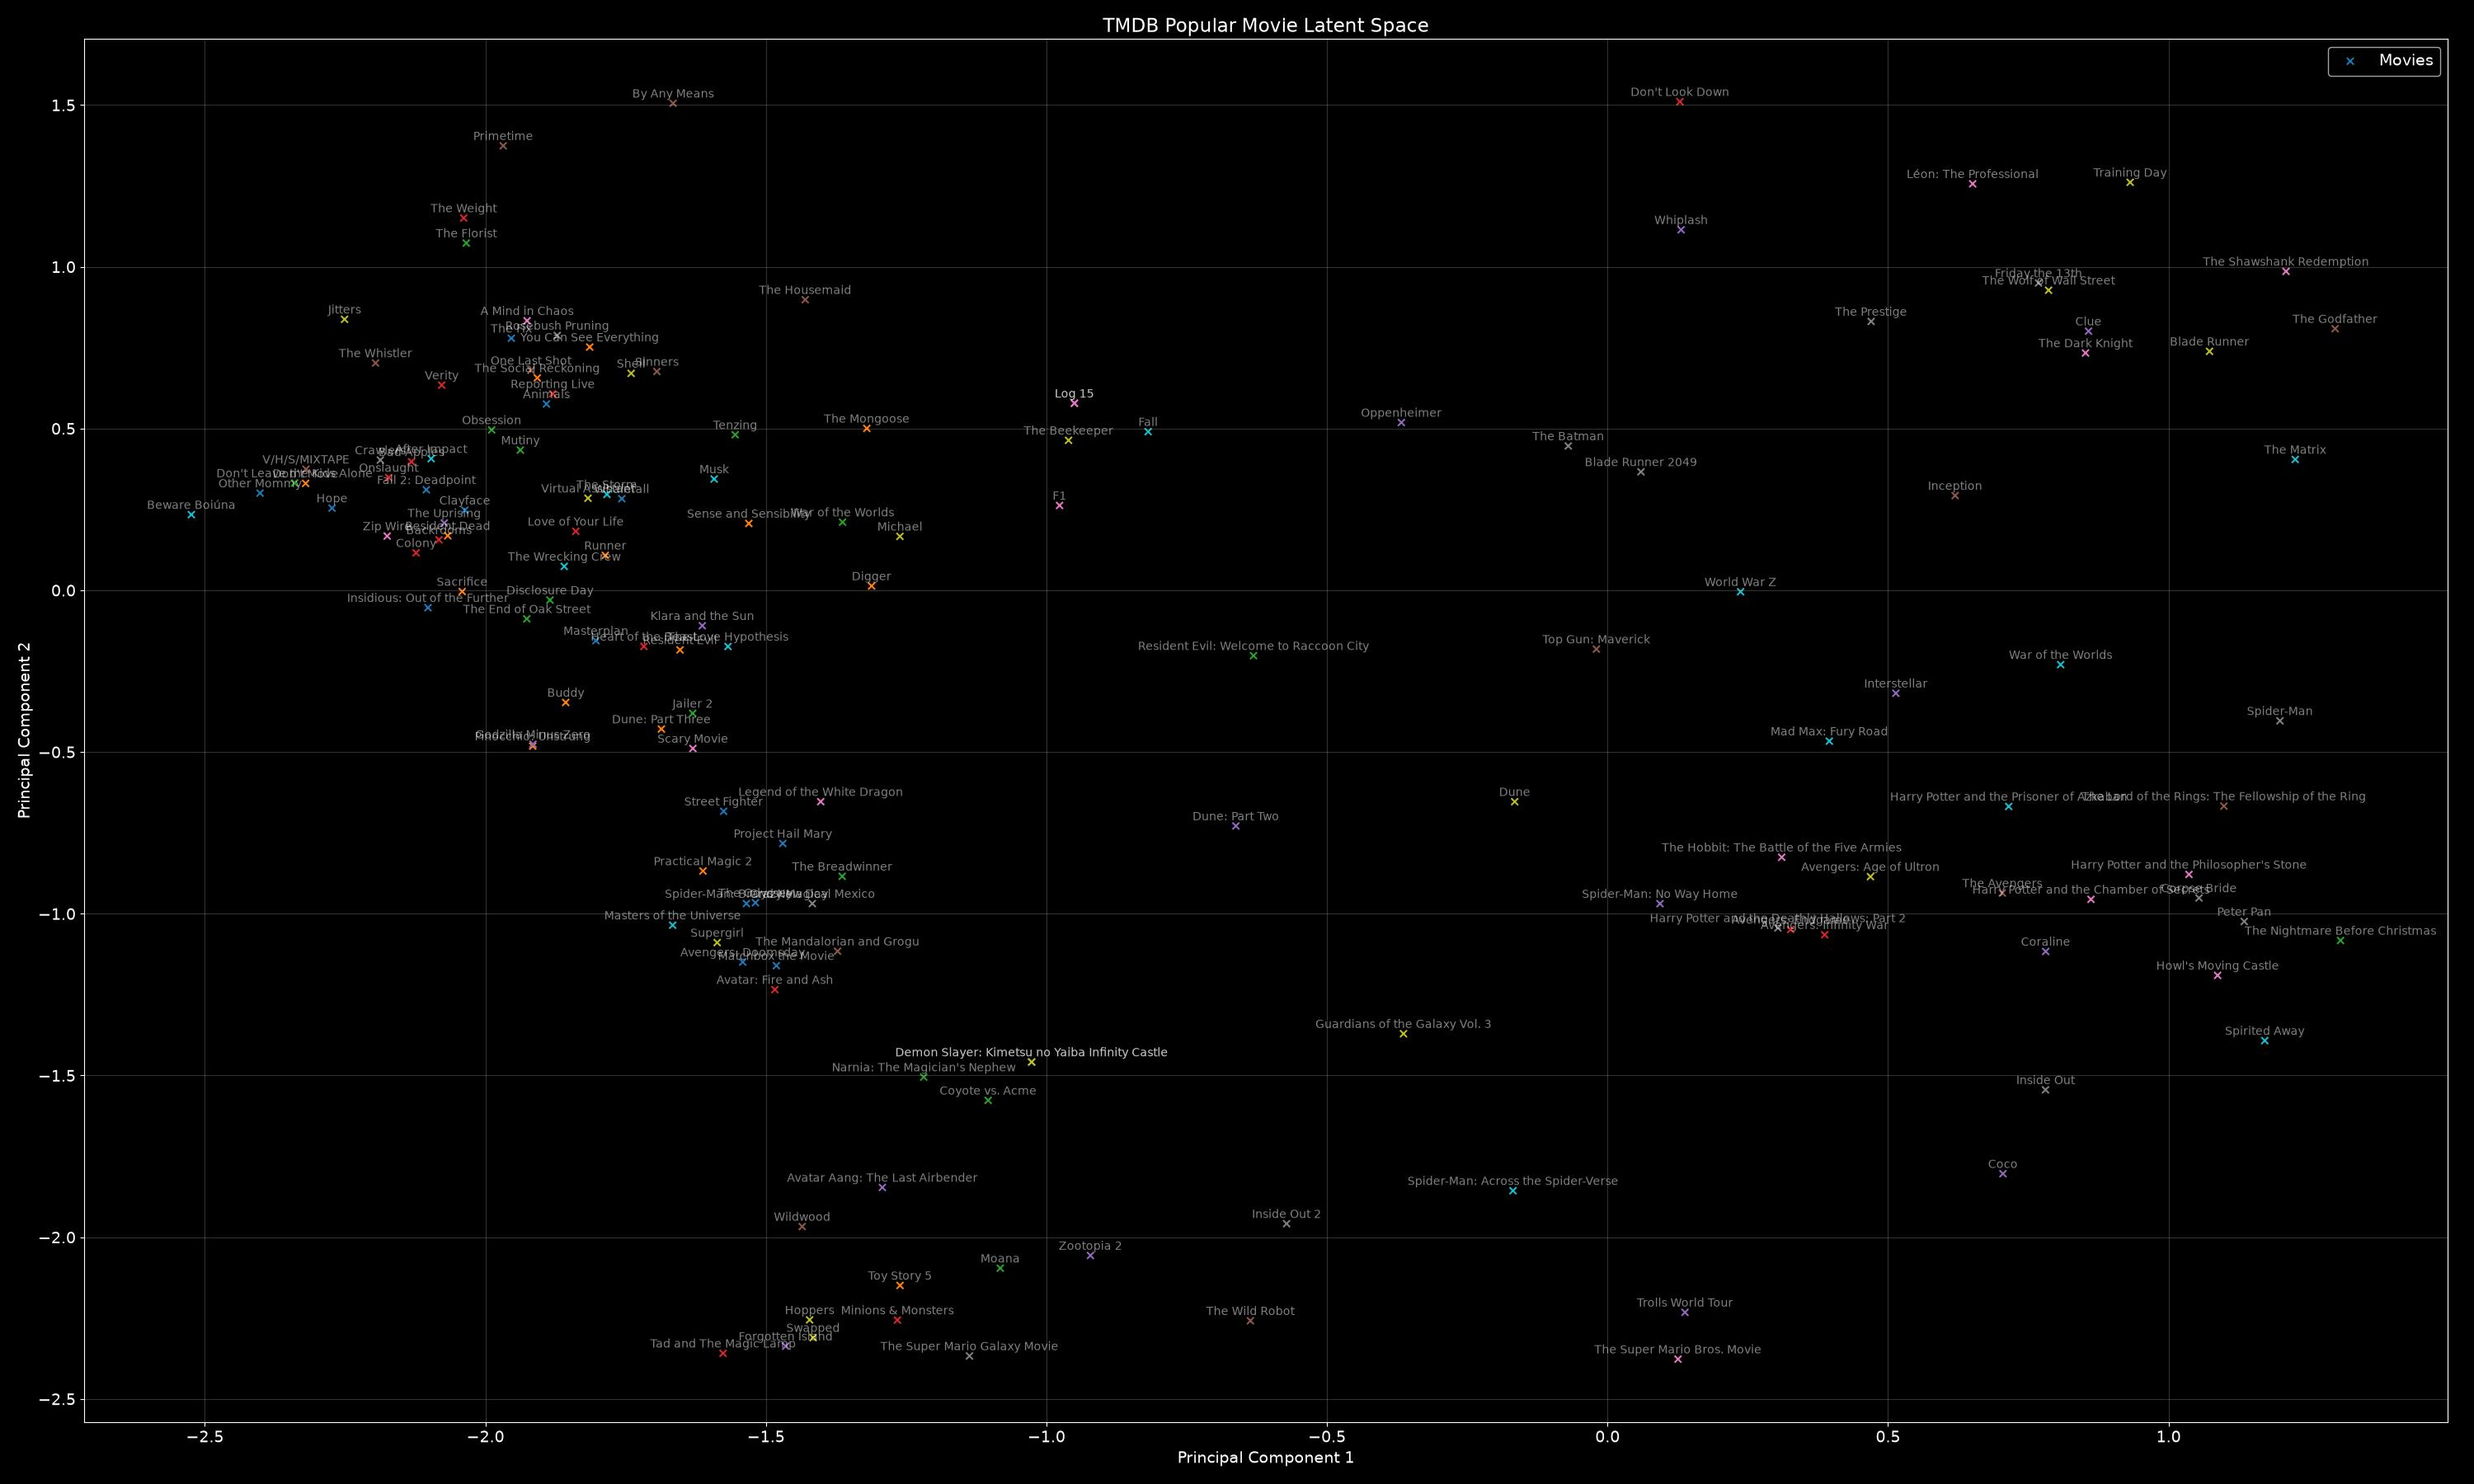
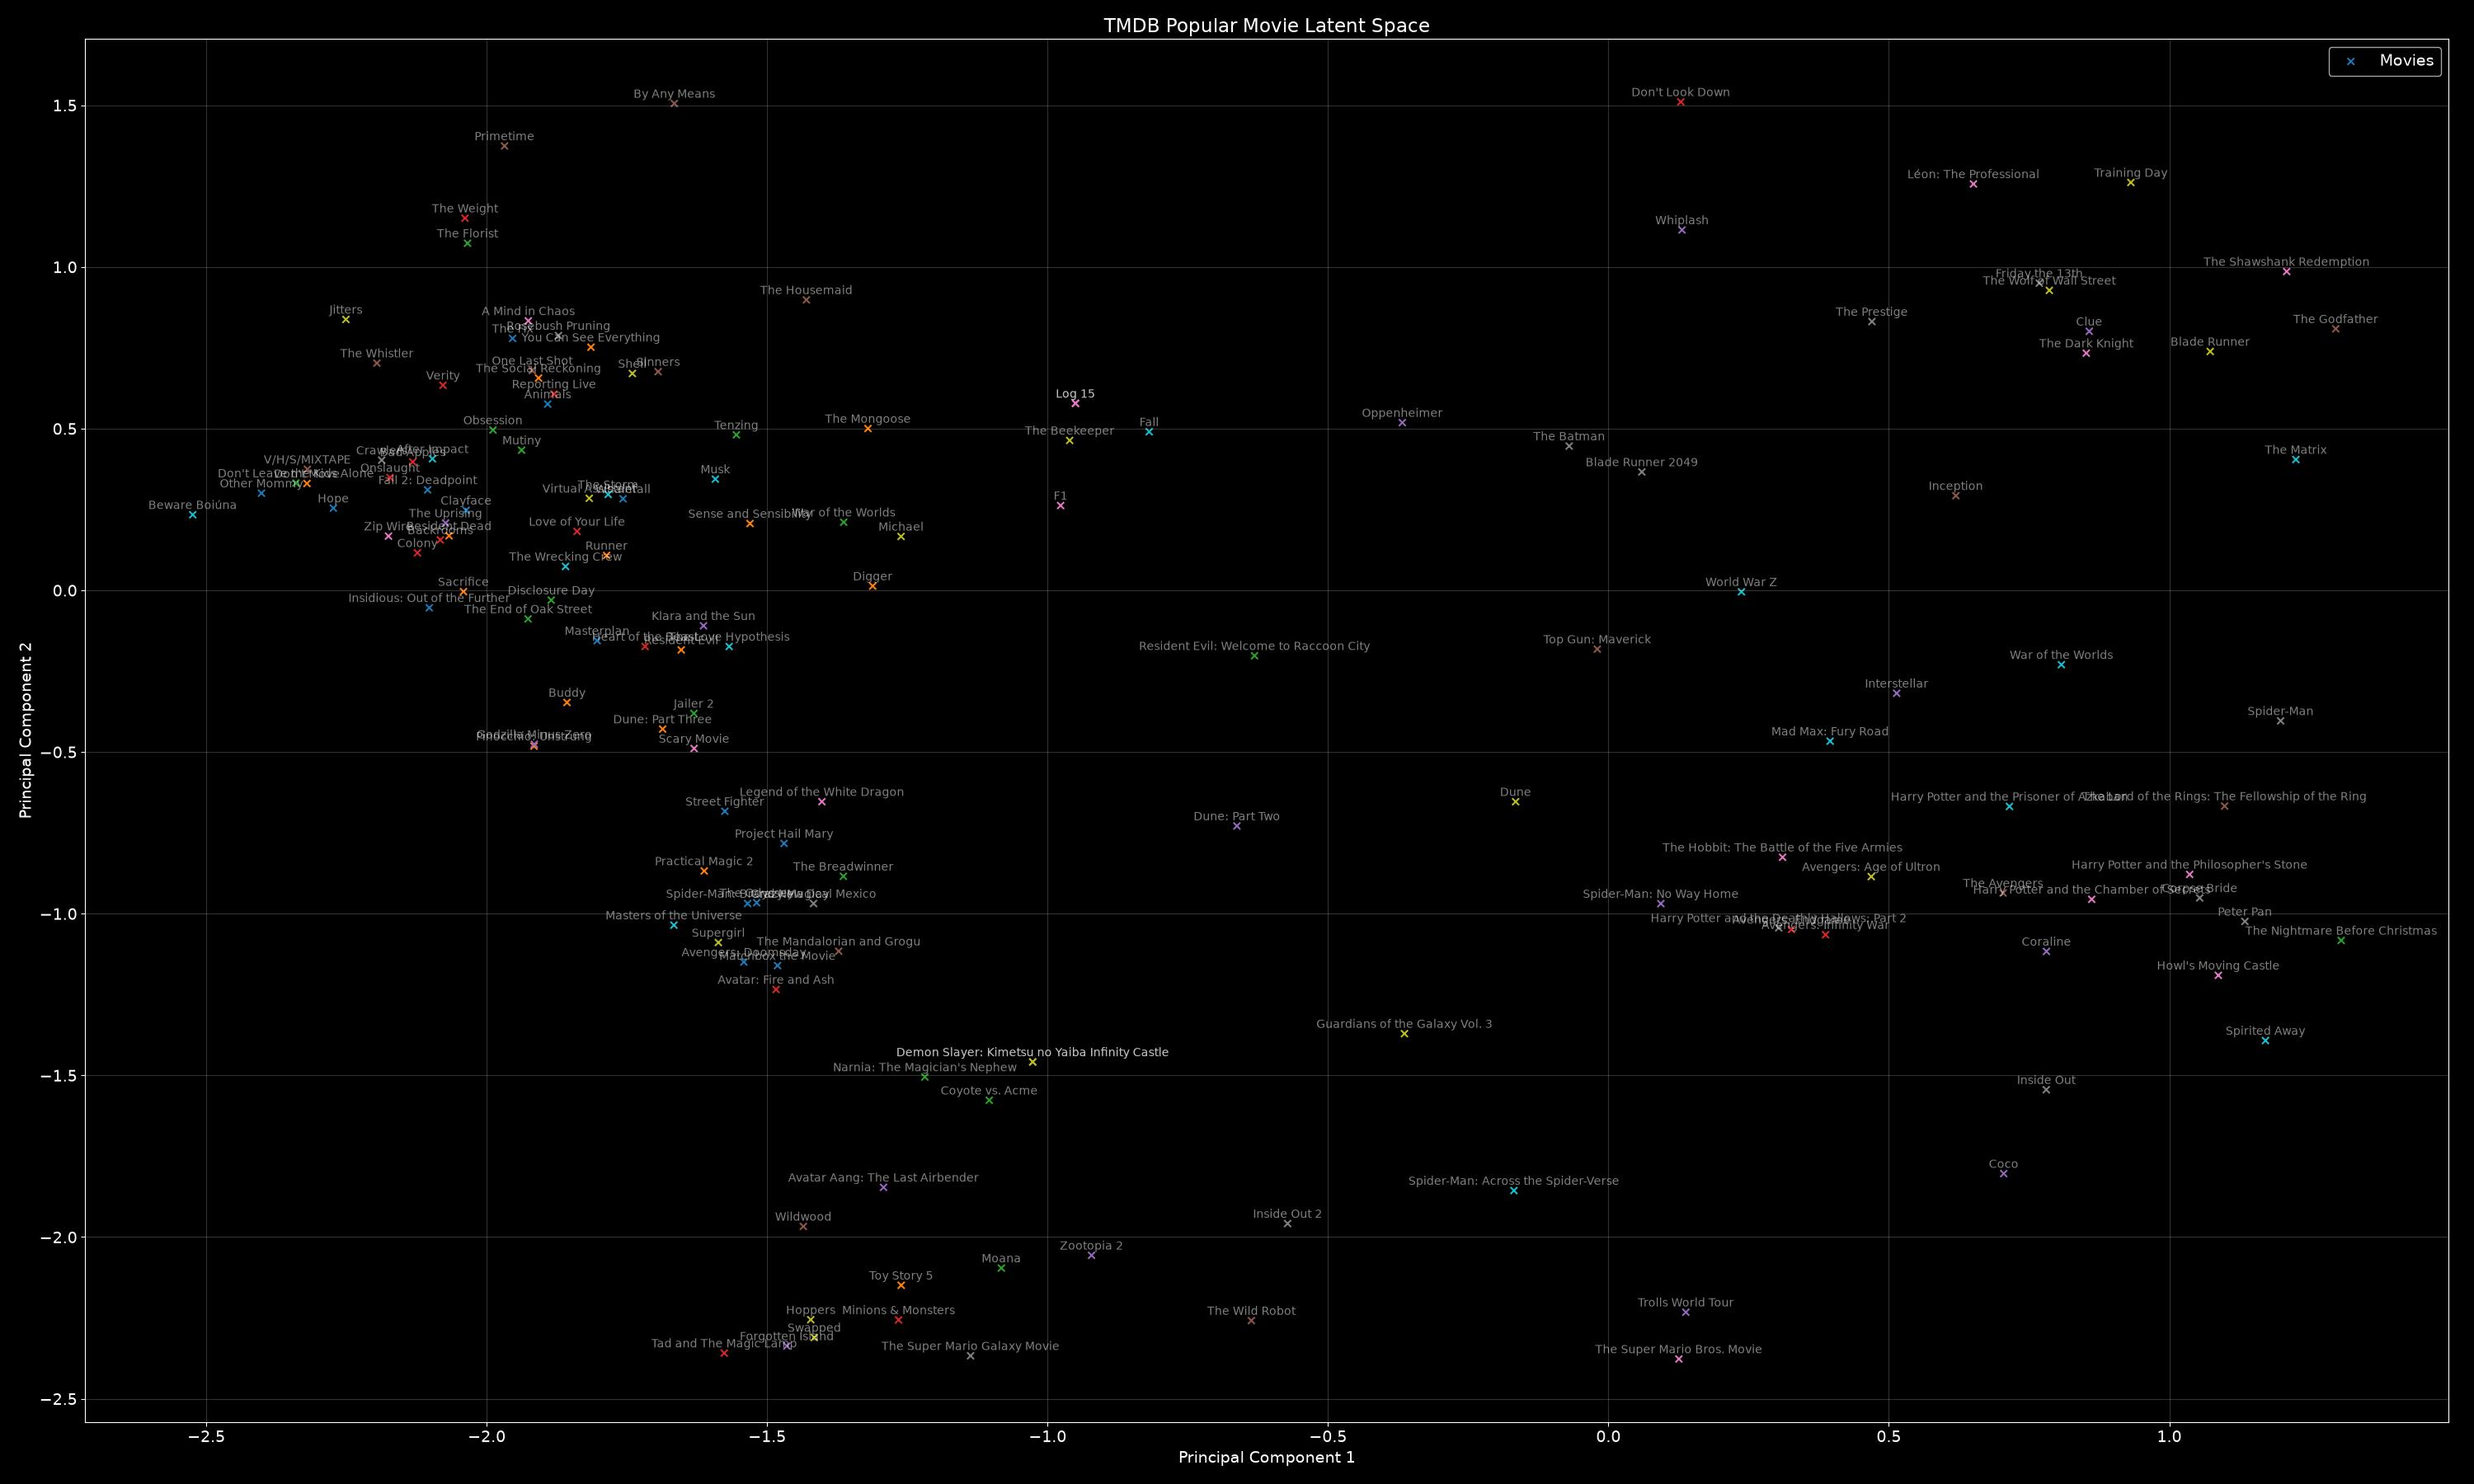
wrote scripts for embedding and started clustering and updated readme.

diff --git a/src/datamount/get-movie-embeddings.py b/src/datamount/get-movie-embeddings.py
@@ -1,0 +1,89 @@
+# integrations
+import sys, os, json
+from dotenv import load_dotenv; load_dotenv()
+print(f"workdir: {os.getcwd()}")
+
+import tmdbsimple as tmdb
+import pandas as pd
+import numpy as np
+
+from google import genai
+print(f"Google GenAI version: {genai.__version__}")
+
+import matplotlib.pyplot as plt
+plt.style.use("dark_background")
+plt.rcParams.update({
+    "figure.figsize": (30,18),
+    "font.size": 14,
+    "axes.grid": True,
+    "grid.alpha": 0.2
+})
+
+from sklearn.decomposition import PCA
+
+# main
+df = pd.read_csv("../data/top_rated.csv.gz", compression="gzip")
+
+# google gemini api
+client = genai.Client(api_key=os.getenv("GOOGLE_API_KEY"))
+
+# movie embedding function
+def get_movie_embeddings(text_contents, batch_size=100):
+    all_embeddings = []
+
+    # process chunks
+    for i in range(0, len(text_contents), batch_size):
+        batch = text_contents[i : i + batch_size]
+        contents = [genai.types.Content(parts=[genai.types.Part.from_text(text=t)]) for t in batch]
+        resp = client.models.embed_content(
+            model="gemini-embedding-2",
+            contents=contents
+        )
+        all_embeddings.extend([e.values for e in resp.embeddings])
+
+    return all_embeddings
+
+# embed all movies in dataset
+documents = df.document.tolist()
+# embeddings = np.array(get_movie_embeddings(documents))
+
+embeddings = np.load("../data/embeddings.npy")
+
+
+# save embeddings
+with open("../data/embeddings.npy", "wb") as f:
+    np.save(f, embeddings)
+print("saved embedding vectors!")
+
+
+# scatterplot
+if int(os.getenv("MAKEPLOT1")):
+
+    # plot movie embeddings
+    p = PCA(whiten=True, n_components=2, random_state=67)
+    embeddings_pca = p.fit_transform(embeddings)
+    print(f"Explained variance: {p.explained_variance_ratio_.sum()*100:.2f}%")
+
+    n_plot = int(os.environ.get("N_PLOT", 100))
+    pc1 = embeddings_pca[:,0]
+    pc2 = embeddings_pca[:,1]
+
+    with open("../data/embeddings-pc1.npy", "wb") as f:
+        np.save(f, pc1)
+    with open("../data/embeddings-pc2.npy", "wb") as f:
+        np.save(f, pc2)
+
+    # scatter projected embeddings
+    plt.scatter(pc1[:n_plot], pc2[:n_plot], marker="x", label="Movies", cmap="tab10", c=np.arange(n_plot))
+
+    # add movie titles
+    if int(os.getenv("MOVIE_NAMES")):
+        for x, y, title in zip(pc1, pc2, df.title.tolist()):
+            plt.annotate(title, (x,y), textcoords="offset points", xytext=(0,5), ha="center", fontsize=10, alpha=0.5)
+
+    plt.xlabel("Principal Component 1")
+    plt.ylabel("Principal Component 2")
+    plt.title("TMDB Top Rated Movie Latent Space")
+    plt.legend()
+    plt.tight_layout()
+    plt.savefig("../imgs/top-rated-movie-latent-space.jpg")

diff --git a/src/clustering/kmeans.py b/src/clustering/kmeans.py
@@ -1,0 +1,53 @@
+# integrations
+import sys, os, json
+from dotenv import load_dotenv; load_dotenv()
+# print(f"workdir: {os.getcwd()}")
+
+import tmdbsimple as tmdb
+import pandas as pd
+import numpy as np
+
+import matplotlib.pyplot as plt
+plt.style.use("dark_background")
+plt.rcParams.update({
+    "figure.figsize": (30,18),
+    "font.size": 14,
+    "axes.grid": True,
+    "grid.alpha": 0.2
+})
+
+from sklearn.decomposition import PCA
+from sklearn.cluster import KMeans
+
+# main
+embeddings = np.load("../data/embeddings.npy")
+pc1 = np.load("../data/embeddings-pc1.npy")
+pc2 = np.load("../data/embeddings-pc2.npy")
+
+n_clusters = 5
+kmeans = KMeans(n_clusters=n_clusters, random_state=67, n_init="auto")
+clusters = kmeans.fit_predict(embeddings)
+
+with open(f"../data/clusters-kmeans-{n_clusters}.npy", "wb") as f:
+    np.save(f, clusters)
+print("saved kmeans clusters (k={n_clusters})")
+
+# plot projected embeddings by clusters
+if int(os.getenv("MAKEPLOT2")):
+    
+    # scatterplot
+    n_plot = int(os.environ.get("N_PLOT", 100))
+    plt.scatter(pc1[:n_plot], pc2[:n_plot], marker="x", label="Movies", cmap="tab10", c=clusters[:n_plot], s=100)
+
+    # add movie titles
+    if int(os.getenv("MOVIE_NAMES")):
+        df = pd.read_csv("../data/top_rated.csv.gz", usecols=["title"], compression="gzip")
+        for x, y, title in zip(pc1, pc2, df.title.tolist()):
+            plt.annotate(title, (x,y), textcoords="offset points", xytext=(0,5), ha="center", fontsize=10, alpha=0.5)
+
+    plt.xlabel("Principal Component 1")
+    plt.ylabel("Principal Component 2")
+    plt.title("TMDB Top Rated Movie Latent Space")
+    plt.legend()
+    plt.tight_layout()
+    plt.savefig(f"../imgs/top-rated-movie-latent-space-kmeans-{n_clusters}.jpg")

diff --git a/README.md b/README.md
@@ -26,3 +26,37 @@ So far I have explored a few of the pipelines in some jupyter notebooks, and I'm
 
 Here is an image of the current clustering of some movies I have:
 ![Movie Clusters](./src/imgs/popular-movie-latent-space-clusters.jpg)
+
+
+## Progress
+
+### collect movie data using The Movie DataBase (TMDB) API
+I started by learning to use the tmdb api in a notebook, then I formalized the pipeline in a python file to mount the data.
+
+See "./src/datamount/get-top-rated.py"
+
+### produce embeddings on the movies using modern embedding model like gemini-embedding-2
+For my embeddings, I again started by learning how to use the api using a notebook on a small sample dataset. Then, once I was comfortable with the usage, I formalised the embedding pipeline in a python script that I can call to generate embeddings of the top-rated movies, after which I get a scatter plot of their 2D PCA projection.
+
+See "./src/datamount/get-movie-embeddings.py"
+![Movies](./src/imgs/top-rated-movie-latent-space.jpg)
+
+### use unsupervised learning to cluster the movies into groups of similar movies given metric of similarity
+As I am mostly new to unsupervised learning, I wanted to fokus a little more on this, doing so by testing out a few different models and hyperparameters.
+
+What I decided on, was to make a "clustering" folder, dedicated to testing out different clustering algoritms and hyperparameter setups and seeing what they produce. Maybe I can use this later too see if the clusters were different in more ways than geometric. Perhaps this will become more apparent after auto-labeling the clusters too.
+
+So far I have only implemented KMeans, but I also intend on testing out density methods such as dbscan.
+
+KMeans (K=30) clustering:
+![kmeans-clustering](./src/imgs/top-rated-movie-latent-space-kmeans-30.jpg)
+
+### use generative ai to autoproduce semantic labels characterizing the clusters
+TODO
+
+### possibly cluster the clusters to get subgenres
+TODO
+
+### produce a local frontend data app to explore the results
+TODO
+
